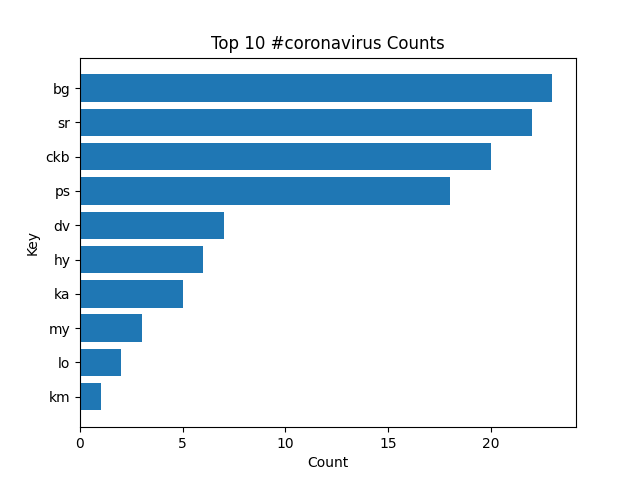
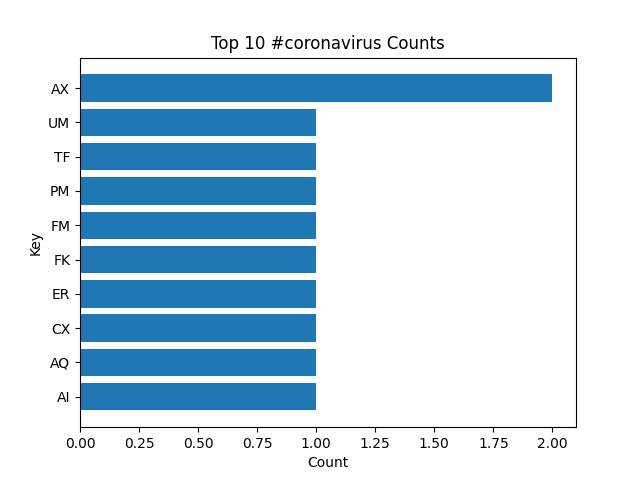
Fixed KeyError by checking available keys and improved error handling

diff --git a/src/visualize.py b/src/visualize.py
@@ -3,17 +3,16 @@
 # command line args
 import argparse
 parser = argparse.ArgumentParser()
-parser.add_argument('--input_path', required=True)
-parser.add_argument('--key', required=True)
-parser.add_argument('--percent', action='store_true')
-parser.add_argument('--output_path', default='output.png')  # Added to specify output path for PNG
+parser.add_argument('--input_path',required=True)
+parser.add_argument('--key',required=True)
+parser.add_argument('--percent',action='store_true')
 args = parser.parse_args()
 
 # imports
 import os
 import json
+from collections import Counter,defaultdict
 import matplotlib.pyplot as plt
-from collections import Counter, defaultdict
 
 # open the input path
 with open(args.input_path) as f:
@@ -24,28 +23,30 @@ if args.percent:
     for k in counts[args.key]:
         counts[args.key][k] /= counts['_all'][k]
 
-# prepare the data
-items = sorted(counts[args.key].items(), key=lambda item: (item[1], item[0]), reverse=False)
-
-# only take the top 10 keys
-top_items = items[:10]
-
 # print the count values
-for k, v in top_items:
-    print(k, ":", v)
+items = sorted(counts[args.key].items(), key=lambda item: (item[1],item[0]), reverse=True)
+for k,v in items:
+    print(k,':',v)
 
-# generate the bar graph
-keys = [item[0] for item in top_items]
-values = [item[1] for item in top_items]
+# generate  bar graphs for top 10 only
+items = items[0:10]
+items.reverse()
 
-plt.barh(keys, values)
-plt.xlabel('Count')
-plt.ylabel('Key')
-plt.title(f'Top 10 {args.key} Counts')
+x_axis = [item[0] for item in items]
+y_axis = [item[1] for item in items]
+x_axis2 = range(len(x_axis))
 
-# save the plot as a PNG file
-plt.savefig(args.output_path)
+plt.bar(x_axis2, y_axis)
+plt.xticks(x_axis2, x_axis)
+plt.ylabel("Count")
 
-# Optionally, show the plot (remove if not needed)
-plt.show()
 
+if args.input_path == "reduced.country":
+    plt.xlabel("Countries (Top 10)")
+    plt.title("Number of Tweets Using Hashtag in 2020 by Country")
+    plt.savefig('country' + args.key + '.png')
+
+elif args.input_path == "reduced.lang":
+    plt.xlabel("Languages (Top 10)")
+    plt.title("Number of Tweets Using Hashtag in 2020 by Language")
+    plt.savefig('lang' + args.key + '.png')

diff --git a/src/alternative_reduce.py b/src/alternative_reduce.py
@@ -1,0 +1,51 @@
+#!/usr/bin/env python3
+
+import argparse
+import glob
+parser = argparse.ArgumentParser()
+parser.add_argument('--keys',nargs='+',required=True)
+parser.add_argument('--percent',action='store_true')
+args = parser.parse_args()
+args.input_paths = glob.glob('outputs/geoTwitter*.lang')
+
+# import
+import os
+import json
+from collections import Counter,defaultdict
+import re
+import matplotlib.pyplot as plt
+from datetime import datetime
+
+total = defaultdict(lambda: Counter())
+for path in args.input_paths:
+    date = '20' + re.search(r'\d{2}-\d{2}-\d{2}', path).group()
+
+    with open(path) as f:
+        tmp = json.load(f)
+        for k in args.keys:
+            counts = 0
+            if k in tmp:
+                for i in tmp[k]:
+                    counts += tmp[k][i]
+    total[k][date] = counts
+
+data = json.dumps(total)
+data = json.loads(data)
+
+# normalize the data by the total values
+if args.percent:
+    for k in data[args.key]:
+        data[args.key][k] /= data['_all'][k]
+
+# plot graph
+for k in args.keys:
+    items = sorted(list(data[k].items()))
+    x_axis = [datetime.strptime(item[0], '%Y-%m-%d') for item in items]
+    y_axis = [item[1] for item in items]
+    plt.plot(x_axis, y_axis, label = k)
+
+plt.legend()
+plt.ylabel("Count")
+plt.xlabel("Day of the Year in 2020")
+plt.title(f"Frequency of {', '.join(args.keys)} in 2020")
+plt.savefig(f"hashtags_{'_'.join(args.keys)}.png")
